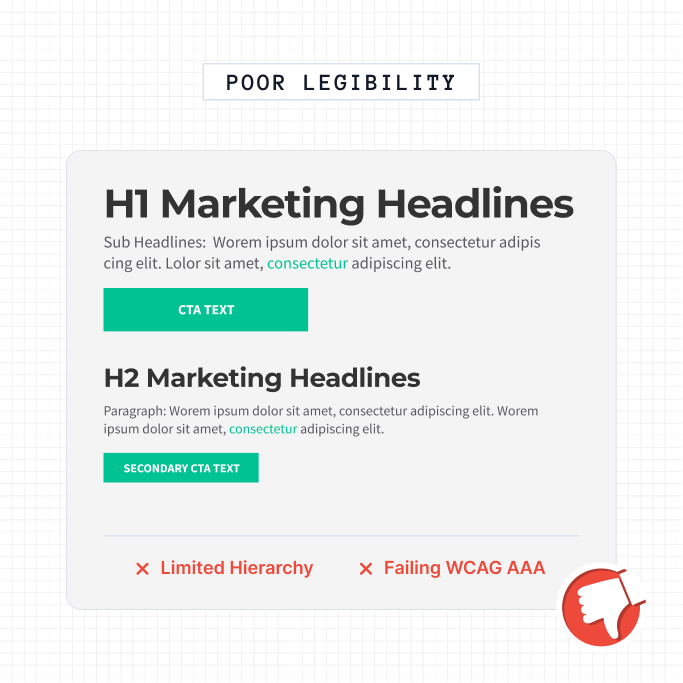
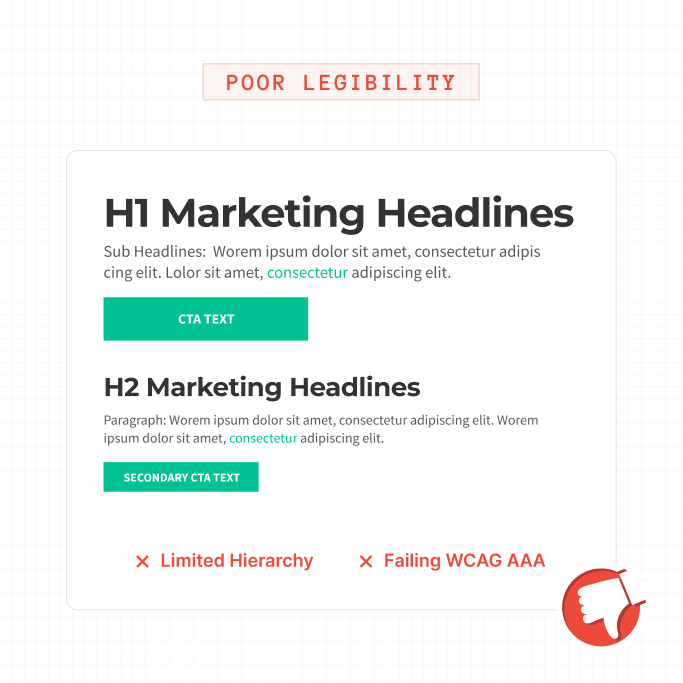
refactor: remove forced card background styling and update image asset references for ResumeHelp project

diff --git a/src/components/ui/ImageBox.jsx b/src/components/ui/ImageBox.jsx
@@ -2,7 +2,7 @@ import React from "react";
 
 function ImageBox({ src, alt }) {
   return (
-    <div className="img-box w-full flex flex-col items-center justify-center text-center aspect-square border card-1 rounded-xl overflow-hidden">
+    <div className="img-box w-full flex flex-col items-center justify-center text-center aspect-square border card-1 rounded-xl overflow-hidden !bg-transparent">
       <img
         className="image-hover-scale"
         src={src}

diff --git a/src/components/project/ProjectLayout.css b/src/components/project/ProjectLayout.css
@@ -181,11 +181,6 @@
   transition: opacity 0.6s ease;
 }
 
-/* Force hard white/black (var(--card-bg-1)) onto inner cards/images instead of theme-tinted colors */
-.project-journey .card-1 {
-  background-color: var(--card-bg-1) !important;
-}
-
 /* Active Highlight Logics */
 .project-journey section.is-active-node > .topic-node,
 .project-journey section.is-active-node > .topic-cover > *:not(.absolute),

diff --git a/src/pages/ProjectDetail/projects/ResumeHelp.jsx b/src/pages/ProjectDetail/projects/ResumeHelp.jsx
@@ -66,7 +66,7 @@ const problemData = {
   p6: {
     title: "Random Backgrounds",
     description: "Unjustifiable design choices led to awkward shifts in UI brightness.",
-    imageSrc: `${basePath}/assets/random_backgrounds.png`,
+    imageSrc: `${basePath}/assets/random_bg.png`,
     imageAlt: "Random Backgrounds",
     imagePosition: "right",
     items: [
